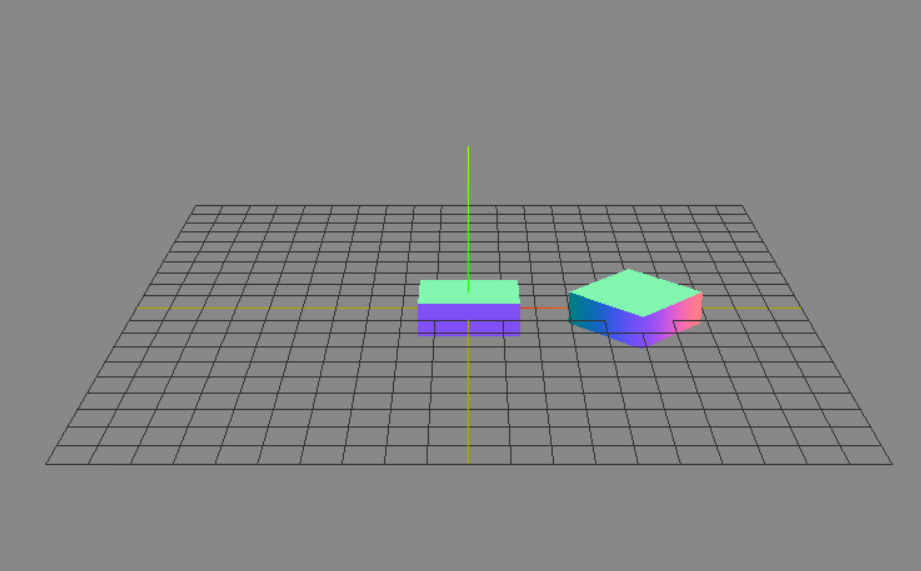
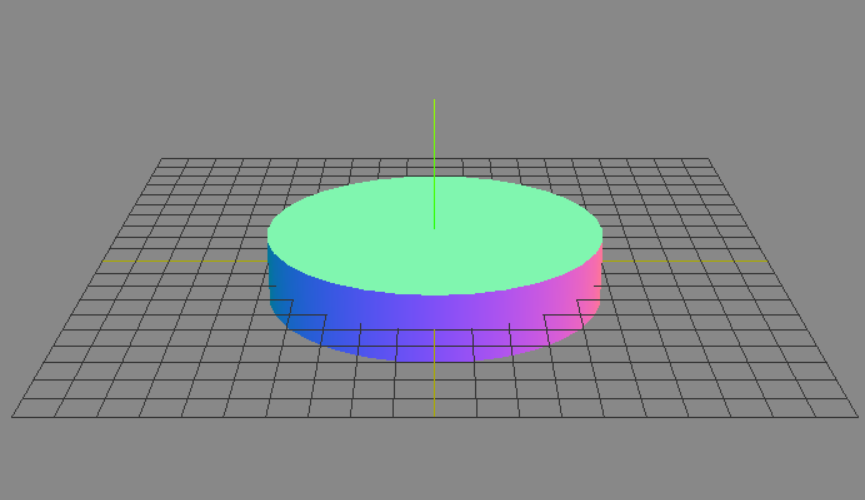
202110011500

Changed region(s): [[0.0, 0.24, 0.9988, 0.84]]

diff --git a/hw0.html b/hw0.html
@@ -52,10 +52,9 @@ function init () {
 	cube = new THREE.Mesh (cubeGeometry, cubeMaterial);
 	scene.add (cube);
 	
-	var cylinderGeometry = new THREE.CylinderGeometry (2, 2, 1, 4);
+	var cylinderGeometry = new THREE.CylinderGeometry (5, 5, 2, 32);
 	var cylinderMaterial = new THREE.MeshNormalMaterial();
 	cylinder = new THREE.Mesh (cylinderGeometry, cylinderMaterial);
-	cylinder.position.set (5, 0);
 	scene.add (cylinder);
 		
 }
